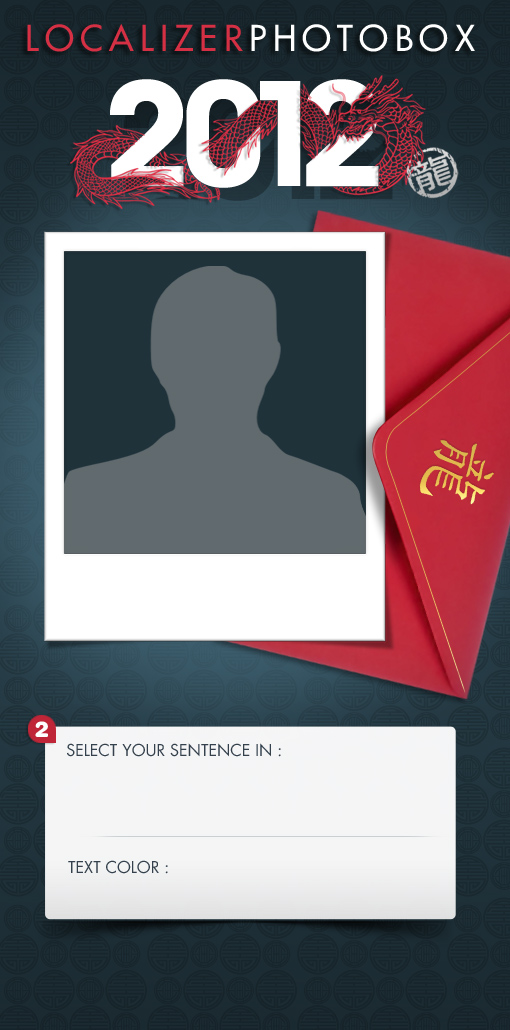
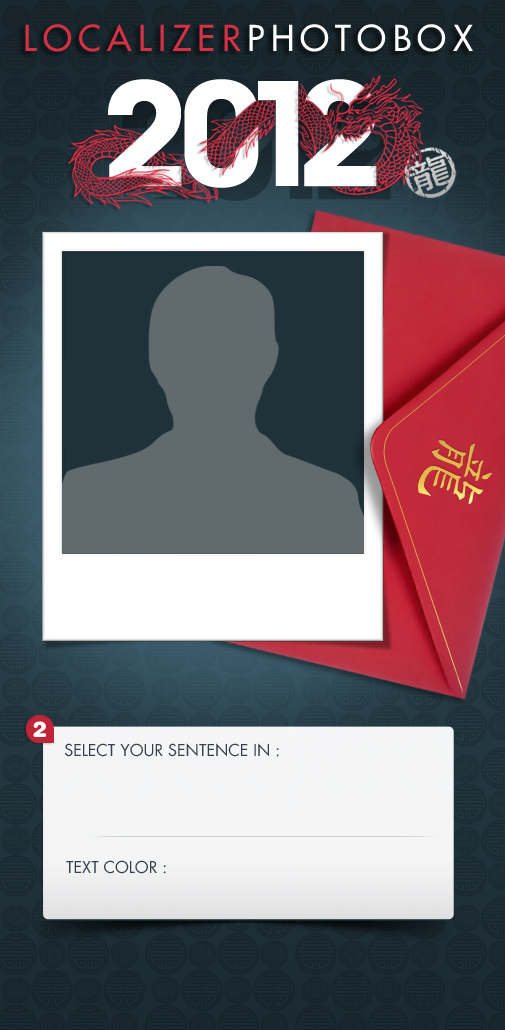
bg size change + css overlay change

diff --git a/public/css/studio.css b/public/css/studio.css
@@ -12,7 +12,7 @@
     font-family: "lucida grande",tahoma,verdana,arial,sans-serif;
     position: absolute;
     text-align: center;
-    top: 77px;
+    top: 245px;
     z-index: 100;
 }
 
